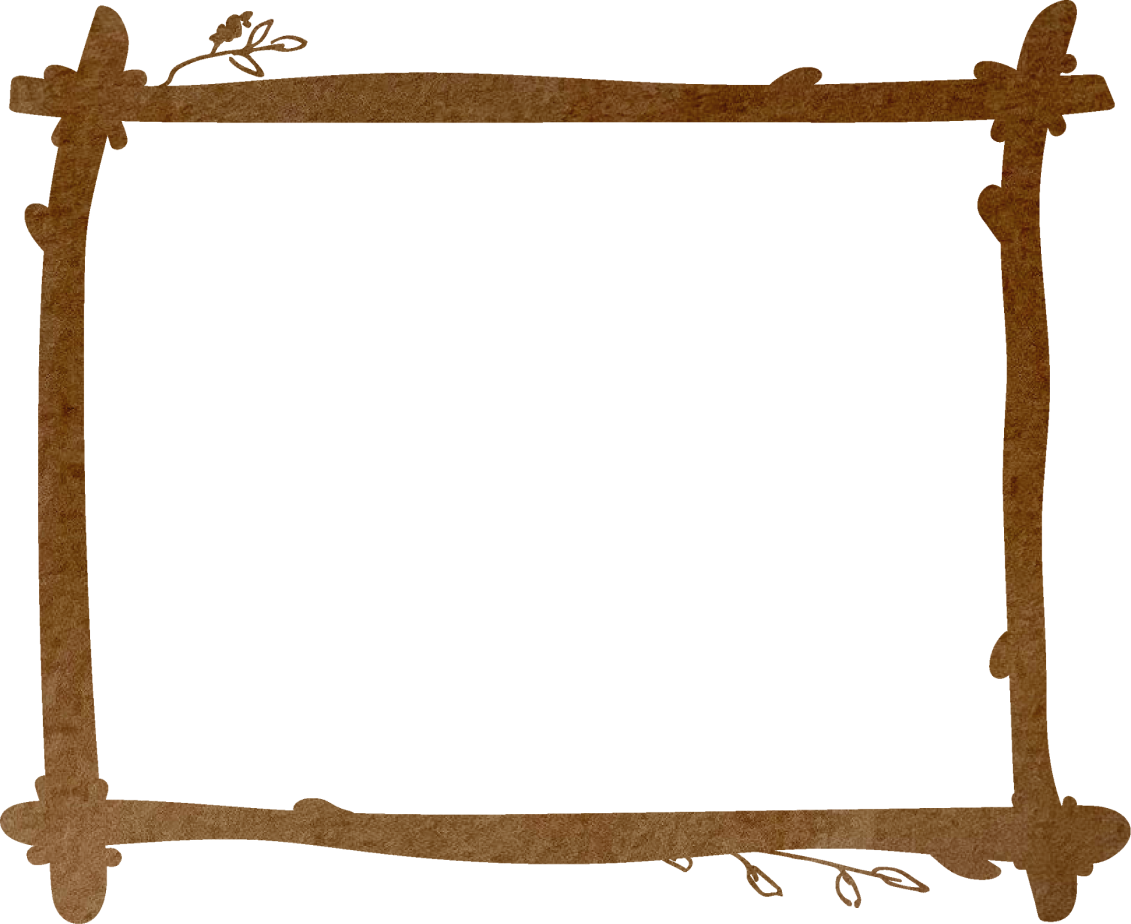
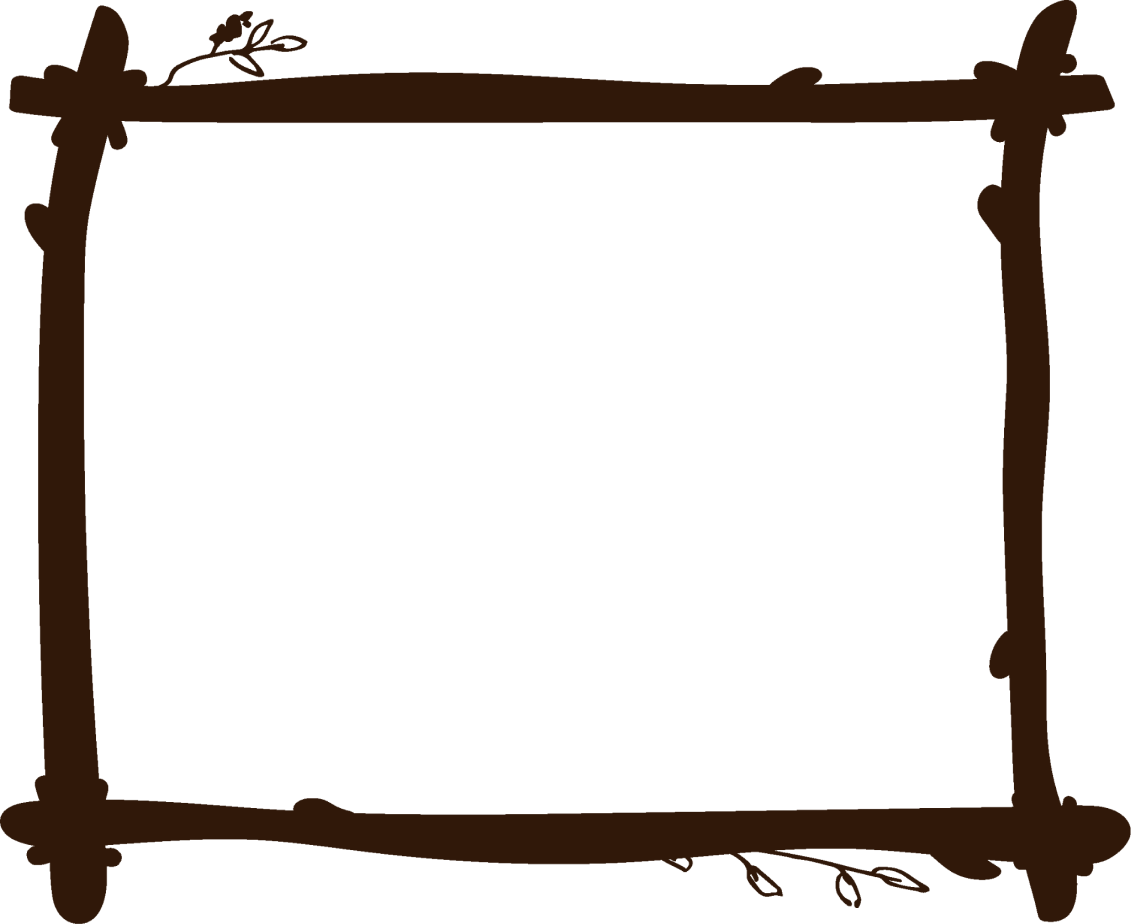
Added border to about page video

Changed region(s): [[0.0, 0.0, 1.0, 1.0]]

diff --git a/client/about/styles.css b/client/about/styles.css
@@ -134,6 +134,7 @@ p {
   display: flex;
   justify-content: center;
   align-items: center;
+  position: relative;
 }
 
 .video-container iframe {
@@ -142,6 +143,18 @@ p {
   max-width: 640px;
   border-radius: 8px;
   box-shadow: 0 4px 8px rgba(0, 0, 0, 0.1);
+}
+
+.video-border {
+  position: absolute;
+  top: 50%;
+  left: 50%;
+  transform: translate(-48%, -50%) scale(1.21);
+  width: 100%;
+  max-width: 640px;
+  aspect-ratio: 16/9;
+  pointer-events: none;
+  z-index: 1;
 }
 
 .newsletter-section {

diff --git a/client/about/index.html b/client/about/index.html
@@ -155,6 +155,11 @@
           allow="accelerometer; autoplay; clipboard-write; encrypted-media; gyroscope; picture-in-picture"
           allowfullscreen
         ></iframe>
+        <img
+          src="assets/video-border.png"
+          alt="Video Border"
+          class="video-border"
+        />
       </div>
     </section>
 
